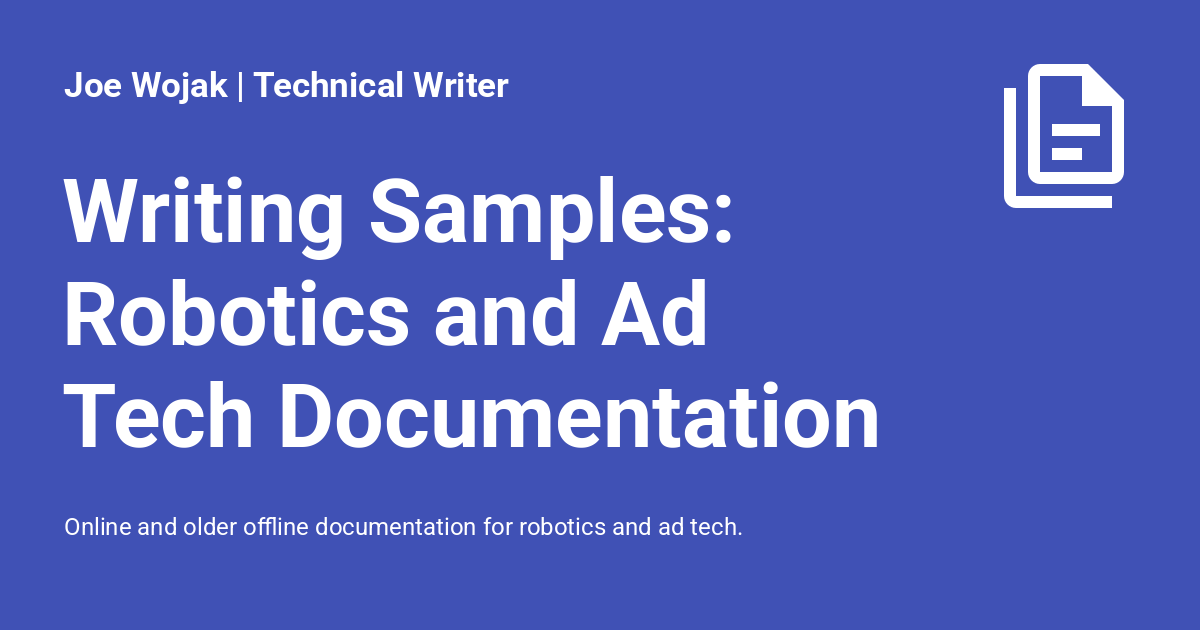
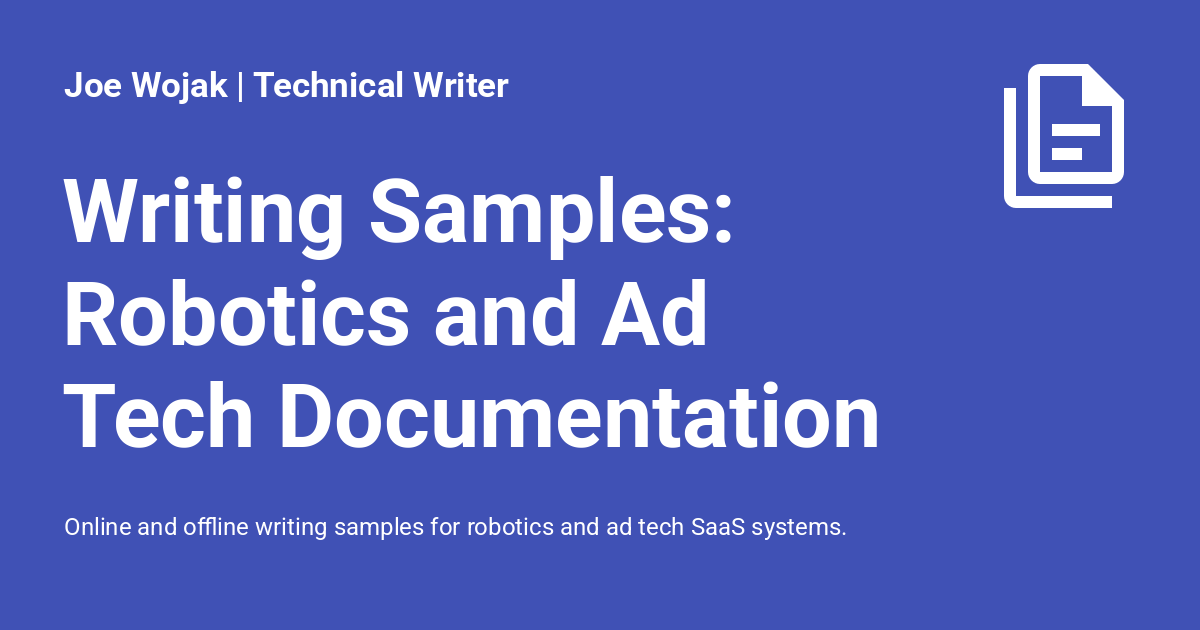
Revisions to writing sample landing page.

Changed region(s): [[0.1542, 0.8143, 0.7092, 0.8746]]

diff --git a/docs/stylesheets/extra.css b/docs/stylesheets/extra.css
@@ -54,3 +54,12 @@
     display: none; /* Hides email/social labels on small screens */
   }
 }
+
+/* Automatically standardize all grid card banner images */
+.grid.cards li > p > img {
+  width: 100%;
+  height: 160px;          /* Forces a uniform height across all cards */
+  object-fit: contain;     /* Fit in letterbox */
+  object-position: center;/* Centers the crop area */
+  margin: 0;
+}

diff --git a/docs/writing-samples/index.md b/docs/writing-samples/index.md
@@ -1,35 +1,108 @@
 ---
 title: "Writing Samples: Robotics and Ad Tech Documentation"
-description: "Online and older offline documentation for robotics and ad tech."
+description: "Online and offline writing samples for robotics and ad tech SaaS systems."
 ---
 
-These samples highlight my current work in robotics and past work in ad tech. Additional examples are available upon request.
+Writing samples and technical documentation for robotics and AdTech platforms.
 
-## Robotics documentation
+- **Robotics:** Examples of live, in-production manuals and developer references available online.
+- **AdTech:** Examples of older documentation for systems that may have changed significantly since publication.
 
-The [robotics writing samples](./robotics.md) feature my work for Opentrons as a contributing writer and primary author. The API and G-code examples below are subsets of this documentation.
+## :material-robot: Robotics Documentation
 
-### API documentation
+Production documentation for Opentrons liquid-handling robots, modules, and developer tools. These feature my work as primary author and contributing writer.
 
-The [API writing sample](./api-docs.md) documents several liquid handling methods for the Opentrons Python API.
+<div class="grid cards" markdown>
 
-### G-code documentation
+-   ![Opentrons Flex](../images/flex-hero.png)
+    __Flex Instruction Manual__
 
-G-code provides machine-readable instructions for controlling hardware. These in-production examples are part of a project to make G-code for selected modules more uniform and accessible. I am also the primary author of these manuals.
+    ---
 
-- [Thermocycler G-code Concepts](https://docs.opentrons.com/thermocycler/g-code-concepts/)
-- [Heater-Shaker G-Code Concepts](https://docs.opentrons.com/heater-shaker/g-code-concepts/)
+    Documentation example as a contributing writer for this ongoing project.
 
-Each section includes three pages of documentation covering metadata, individual commands, and response errors.
+    [:material-open-in-new: Flex Instruction Manual](https://docs.opentrons.com/...)
 
-## Ad tech documentation
+-   ![OT-2 robot](../images/ot2-hero.png)
+    __OT-2 Instruction Manual__
 
-This section contains writing samples that explain budget distribution and campaign performance in an ad-serving system:
+    ---
 
-- [Budget Distribution and Update Cycles](budget-updates.md) outlines how budget data moves through the ad-serving stack.
+    Documentation example as a primary author for the current edition.
 
-- [Understanding Budget Distribution in Data Centers](budget-distribution.md) details how campaign effectiveness dictates budget distribution across data centers.
+    [:material-open-in-new: OT-2 Instruction Manual](https://docs.opentrons.com...)
 
-- [Budget Updates and Delivery Delays](budget-delay.md) explains how to force a budget update across ad servers to launch a campaign.
+</div>
 
-- [Confidence Scores and Report Results](confidence-scores.md) explains how changing confidence scores affects device classification.
+<div class="grid cards" style="grid-template-columns: repeat(auto-fit, minmax(200px, 1fr));" markdown>
+
+-   __Module Documentation__
+
+    ---
+
+    Primary and contributing writer for module manuals.
+
+    [:material-open-in-new: Robot Modules](https://docs.opentrons.com/modules/)
+
+-   __G-Code Documentation__
+
+    ---
+
+    Translating G-code for use in selected manuals.
+
+    [:material-open-in-new: Thermocycler G-code](https://docs.opentrons.com/thermocycler/g-code-concepts/)  
+    [:material-open-in-new: Heater-Shaker G-code](https://docs.opentrons.com/heater-shaker/g-code-concepts/)
+
+-   __API Documentation__
+
+    ---
+
+    Writing demonstration for liquid handling methods.
+
+    [:octicons-arrow-right-24: Read Sample](./api-docs.md)
+
+</div>
+
+---
+
+## :material-server-network: Ad Tech Documentation
+
+Writing samples that explain budget distribution, campaign performance, and device identity in an ad-serving system.
+
+<div class="grid cards" markdown>
+
+-   __Data Pipeline Flow__
+
+    ---
+
+    Explains how budget data moves through a distributed ad-serving stack.
+
+    [:octicons-arrow-right-24: Read Sample](budget-updates.md)
+
+-   __Resource Allocation__
+
+    ---
+
+    Explains how ad servers allocate budget based on campaign performance.
+
+    [:octicons-arrow-right-24: Read Sample](budget-distribution.md)
+
+-   __Fixing Delays With a Budget Update__
+
+    ---
+
+    Instructions on how to force a budget update to start ad delivery.
+
+    [:octicons-arrow-right-24: Read Sample](budget-delay.md)
+
+-    __Probabilistic Modeling__
+
+    ---
+
+    Explains how device graph confidence scores determine relationship strength between devices.
+
+    [:octicons-arrow-right-24: Read Sample](confidence-scores.md)
+
+</div>
+
+---
